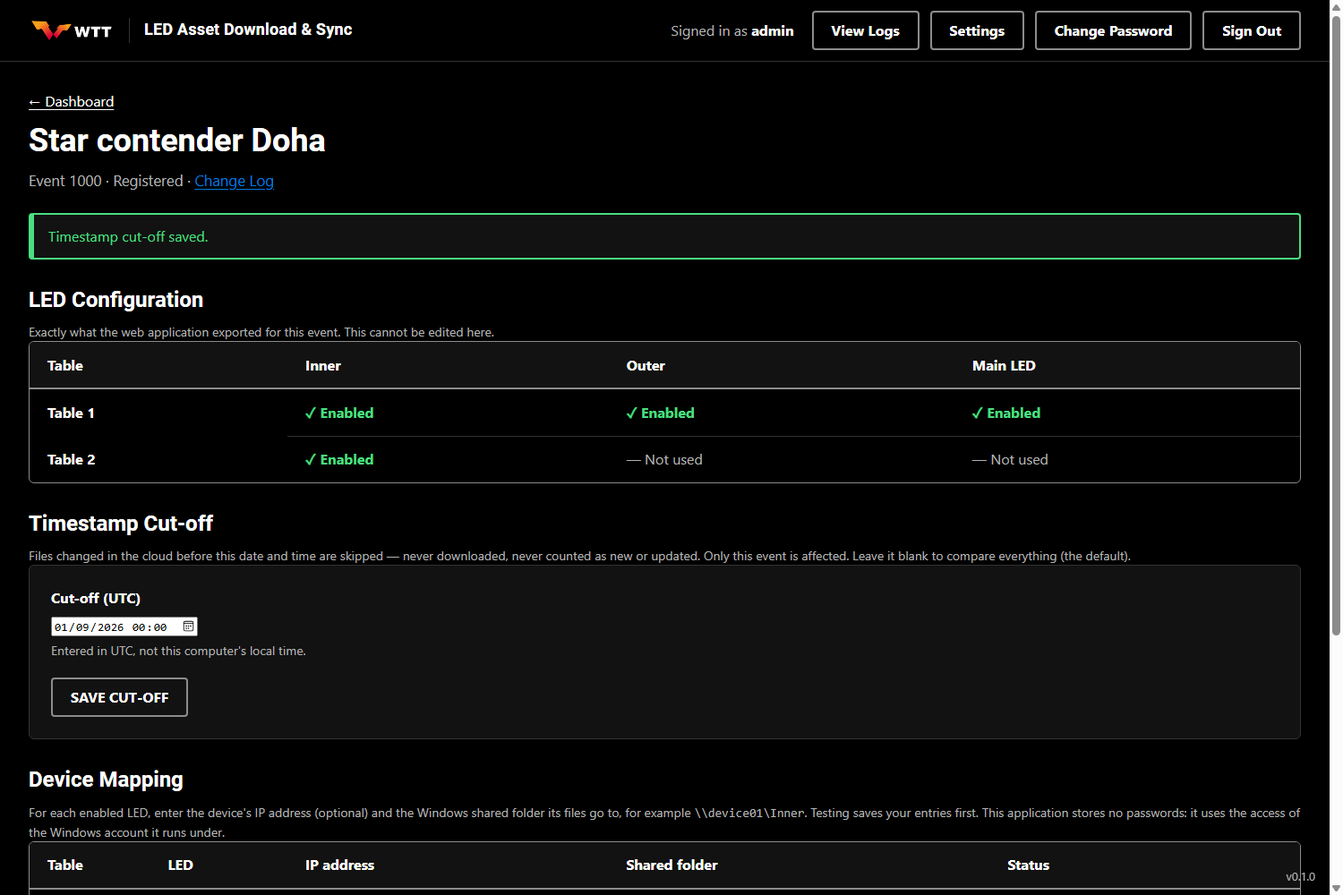
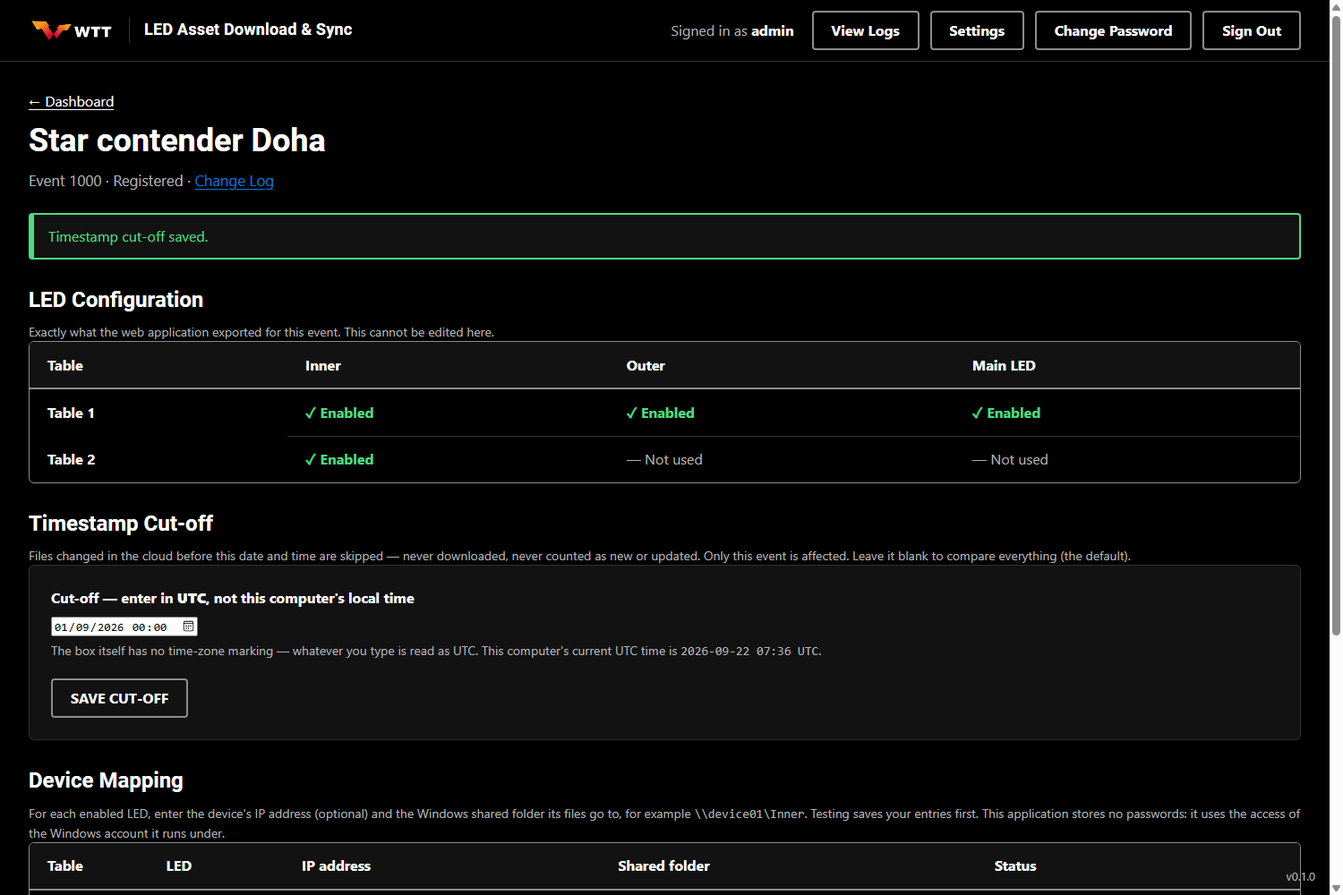
Phase 10: retry settings threaded as parameters, not a shared mutable global (review fix)
The independent review found a real race: transfer.RETRY_COUNT/RETRY_DELAY were mutated
and restored around each background job, but only same-event jobs are serialised (Phase
8), so two jobs for different events on their own threads could observe or permanently
corrupt each other's retry configuration. Reproduced on real threads.

Fixed by removing the mutable global: the saved Settings -> Download value is loaded once
per job and passed down as an ordinary argument through transfer.run / assets.process /
rpi.process / sync.process / _retry. Also: a clearer message for an out-of-range cut-off
year, and a live UTC clock next to the cut-off field so the box's lack of a time-zone
indicator is less likely to cause a real-world local-time mistake.

diff --git a/ledsync/web/templates/event_details.html b/ledsync/web/templates/event_details.html
@@ -49,10 +49,11 @@
     <form method="post" action="{{ url_for('devices.save_cutoff', event_id=event.event_id) }}" class="panel" novalidate data-busy-text="WORKING…">
       <input type="hidden" name="csrf_token" value="{{ csrf_token() }}">
       <div class="field">
-        <label for="cutoff">Cut-off (UTC)</label>
+        <label for="cutoff">Cut-off &mdash; enter in <strong>UTC</strong>, not this computer's local time</label>
         <input id="cutoff" name="cutoff" type="datetime-local" value="{{ cutoff_typed }}"
                aria-describedby="{% if cutoff_error %}cutoff-error {% endif %}cutoff-hint">
-        <p id="cutoff-hint" class="hint">Entered in UTC, not this computer's local time.</p>
+        <p id="cutoff-hint" class="hint">The box itself has no time-zone marking &mdash; whatever you type is read as UTC. This computer's
+          current UTC time is <span id="cutoff-now-utc" class="mono" data-utc-clock></span>.</p>
       </div>
       <div class="form-actions">
         <button type="submit" class="btn btn-secondary">SAVE CUT-OFF</button>

diff --git a/ledsync/web/static/js/app.js b/ledsync/web/static/js/app.js
@@ -53,3 +53,17 @@ window.addEventListener("pageshow", function (event) {
     }
   }
 });
+
+// A plain, always-on reminder of "what UTC is right now" next to any field that needs a UTC value
+// entered (the timestamp cut-off): the native datetime-local picker carries no time-zone marking of
+// its own, so this is the cheapest way to keep the operator from typing local time by mistake.
+document.addEventListener("DOMContentLoaded", function () {
+  var clocks = document.querySelectorAll("[data-utc-clock]");
+  if (!clocks.length) return;
+  function tick() {
+    var now = new Date().toISOString().slice(0, 16).replace("T", " ") + " UTC";
+    for (var i = 0; i < clocks.length; i++) { clocks[i].textContent = now; }
+  }
+  tick();
+  setInterval(tick, 30000);
+});

diff --git a/tests/test_phase10_settings.py b/tests/test_phase10_settings.py
@@ -2,6 +2,7 @@
 timestamp cut-off, and the fuller Dashboard Actions column (Steps 10.1, 10.2)."""
 
 import re
+import threading
 import time
 
 import pytest
@@ -416,3 +417,77 @@ def world_conn(cfg):
     conn.commit()
     yield conn
     conn.close()
+
+
+# --- independent-review regression: retries/delay are ordinary parameters, never a shared mutable global -------------------------
+
+def test_retry_and_delay_are_passed_explicitly_never_via_a_shared_global(monkeypatch):
+    """Two concurrent calls with DIFFERENT retries/delay must never see or leave behind each other's value - proven by
+    running them on separate threads at the same time and checking the module constants are untouched throughout."""
+    from ledsync.services.storage import StorageError
+    monkeypatch.setattr(transfer, "RETRY_COUNT", 1)               # the untouched module defaults, watched throughout
+    monkeypatch.setattr(transfer, "RETRY_DELAY", 0.2)
+    seen_a, seen_b = [], []
+    start = threading.Event()
+
+    def worker(retries, delay, seen, marker):
+        start.wait(2)
+        calls = []
+
+        def action():
+            calls.append(1)
+            seen.append((transfer.RETRY_COUNT, transfer.RETRY_DELAY))       # the untouched globals, sampled mid-flight
+            if len(calls) <= retries:
+                raise StorageError(exceptions.STORAGE_CONNECTIVITY, "busy")
+            return marker
+        assert transfer._retry(action, retries, delay) == marker
+        assert len(calls) == retries + 1
+
+    ta = threading.Thread(target=worker, args=(4, 0.01, seen_a, "a"))
+    tb = threading.Thread(target=worker, args=(1, 0.01, seen_b, "b"))
+    ta.start(), tb.start()
+    start.set()
+    ta.join(5), tb.join(5)
+    assert not ta.is_alive() and not tb.is_alive()
+    # the module defaults were never touched by either call, on either thread, at any point
+    assert set(seen_a) <= {(1, 0.2)} and set(seen_b) <= {(1, 0.2)}
+    assert (transfer.RETRY_COUNT, transfer.RETRY_DELAY) == (1, 0.2)
+
+
+def test_run_job_passes_the_saved_retry_setting_down_as_a_plain_argument_never_a_global(ev, cfg, tmp_path_factory, monkeypatch):
+    """`_run_job` must load Settings -> Download once and pass it down as an ordinary argument to every engine -
+    never assign it to `transfer.RETRY_COUNT` / `RETRY_DELAY`, which a concurrent job on another thread could also
+    be reading or restoring."""
+    from test_phase8_sync import seed, sync_all
+    conn = connect(cfg.db_path)
+    cs.save_download_settings(conn, "3", "0")
+    conn.commit()
+    conn.close()
+    map_devices(ev, cfg, tmp_path_factory)
+    seed(ev)
+    before = (transfer.RETRY_COUNT, transfer.RETRY_DELAY)
+    seen = []
+    real = sync.process
+
+    def watching(*args, **kwargs):
+        seen.append((transfer.RETRY_COUNT, transfer.RETRY_DELAY))         # sampled mid-run, from inside the job
+        return real(*args, **kwargs)
+    monkeypatch.setattr(sync, "process", watching)
+    sync_all(ev)
+    assert seen and set(seen) == {before}                                # the module defaults were never touched
+    assert (transfer.RETRY_COUNT, transfer.RETRY_DELAY) == before         # ... and are still untouched afterwards
+
+
+def test_an_out_of_range_cutoff_year_gets_its_own_clear_message(world_conn):
+    conn = world_conn
+    with pytest.raises(changes.CutoffError, match="between 1970 and 2098"):
+        changes.save_cutoff(conn, "1000", "2099-01-01T00:00")
+    with pytest.raises(changes.CutoffError, match="between 1970 and 2098"):
+        changes.save_cutoff(conn, "1000", "1900-01-01T00:00")
+    with pytest.raises(changes.CutoffError, match="Enter a date and time"):
+        changes.save_cutoff(conn, "1000", "not a date at all")
+
+
+def test_the_cutoff_field_shows_a_live_utc_clock_reminder(ev):
+    html = ev.get("/events/1000").get_data(as_text=True)
+    assert "data-utc-clock" in html and "enter in <strong>UTC</strong>" in html

diff --git a/ledsync/services/downloads.py b/ledsync/services/downloads.py
@@ -190,21 +190,16 @@ def run_job(config, storage_factory, settings, event_id: str, progress: Progress
     return lines
 
 
-def _apply_retry_settings(conn) -> tuple:
-    """Settings -> Download (Phase 10) governs both the download and push retry behaviour, which both read
-    `transfer.RETRY_COUNT` / `transfer.RETRY_DELAY` directly. Returns the previous values to restore afterwards, so a
-    job never leaves those globals changed for anything that runs after it (including, in tests, a later test)."""
-    saved = cloud_settings.load_download_settings(conn)
-    old = (transfer.RETRY_COUNT, transfer.RETRY_DELAY)
-    transfer.RETRY_COUNT, transfer.RETRY_DELAY = saved.retry_count, saved.retry_delay
-    return old
-
-
 def _run_job(config, storage_factory, settings, event_id: str, progress: Progress, tz=None, on_report=None, *,
              download: bool = True, push: bool = True, checker=None) -> list[dict]:
     conn = connect(config.db_path)
-    old_retry = _apply_retry_settings(conn)
     try:
+        # Settings -> Download (Phase 10) governs both the download and push retry behaviour. Read once here and
+        # passed explicitly to every engine below - an ordinary local value, never a shared mutable global - so two
+        # jobs for different events running at the same time on their own threads can never see, or leave behind,
+        # each other's retry configuration.
+        retry_settings = cloud_settings.load_download_settings(conn)
+        retries, delay = retry_settings.retry_count, retry_settings.retry_delay
         progress.phase = "Checking"
         canonical = conn.execute("SELECT event_id FROM events WHERE event_id = ? COLLATE NOCASE", (event_id,)).fetchone()
         if canonical is None:
@@ -236,7 +231,7 @@ def _run_job(config, storage_factory, settings, event_id: str, progress: Progres
             for label, engine, folder in (("RPI files", rpi, rpi_folder), ("Files", assets, asset_folder)):
                 try:
                     result.add(engine.process(conn, storage, settings.account, location, event_id, report.comparison, folder,
-                                              config.data_dir, progress))
+                                              config.data_dir, progress, retries=retries, delay=delay))
                 except localfiles.LocalFileError as err:
                     notes.append(_line("error", f"{label}: {err}"))
                     result.failed += 1
@@ -258,7 +253,7 @@ def _run_job(config, storage_factory, settings, event_id: str, progress: Progres
             progress.identify(len(items))
             progress.set_phase("Synchronising", len(items))
             protected = (str(asset_folder), str(cloud_settings.load_rpi_folder(conn, config.data_dir).effective))
-            sresult = sync.process(conn, event_id, items, config.data_dir, progress, checker, protected)
+            sresult = sync.process(conn, event_id, items, config.data_dir, progress, checker, protected, retries, delay)
             sresult.unmapped = unmapped
             cancelled = cancelled or sresult.cancelled
             lines += _describe_sync(sresult)
@@ -278,7 +273,6 @@ def _run_job(config, storage_factory, settings, event_id: str, progress: Progres
         return lines
     finally:
         conn.close()
-        transfer.RETRY_COUNT, transfer.RETRY_DELAY = old_retry
 
 
 def run_download(config, storage_factory, settings, event_id: str, progress: Progress, tz=None, on_report=None) -> list[dict]:

diff --git a/ledsync/services/transfer.py b/ledsync/services/transfer.py
@@ -67,10 +67,14 @@ def history(conn, event_id, item, table, led_type, source: str, local: str, stat
                  (event_id, item.file_name, table, led_type, source, local, item.cloud_time_text, _now(), status))
 
 
-def _retry(action):
-    """Run `action`; a transient problem (connection, wrong checksum) gets `RETRY_COUNT` more tries, each after a pause
-    of `RETRY_DELAY` seconds - both read fresh on every call, so a Settings change (or a test's monkeypatch) takes
-    effect immediately without threading a parameter through every caller."""
+def _retry(action, retries: int | None = None, delay: float | None = None):
+    """Run `action`; a transient problem (connection, wrong checksum) gets `retries` more tries, each after a pause
+    of `delay` seconds. `None` (the default) falls back to the module constants `RETRY_COUNT` / `RETRY_DELAY` -
+    read fresh on every call, so a test's monkeypatch of those still works. A real run passes its own Settings ->
+    Download values explicitly instead (see `downloads.py`), so two concurrent jobs for different events can never
+    see - or leave behind - each other's retry configuration; nothing here is a shared, mutable global."""
+    retries = RETRY_COUNT if retries is None else retries
+    delay = RETRY_DELAY if delay is None else delay
     attempt = 0
     while True:
         try:
@@ -80,16 +84,17 @@ def _retry(action):
             if isinstance(err, StorageError) and err.category not in STOP_CATEGORIES and not changed:
                 raise
             attempt += 1
-            if attempt > RETRY_COUNT:
+            if attempt > retries:
                 raise
-            time.sleep(RETRY_DELAY)
+            time.sleep(delay)
 
 
 def run(conn: sqlite3.Connection, storage, account: str, location, event_id: str, items, *, operation: str,
-        folder_for, existing_folder_for, table_led_of, progress, listings: dict) -> TransferResult:
+        folder_for, existing_folder_for, table_led_of, progress, listings: dict,
+        retries: int | None = None, delay: float | None = None) -> TransferResult:
     """Carry out `items` (Assessments). `folder_for(item)` creates and returns the destination folder,
     `existing_folder_for(item)` returns it only if it exists (for removals), `table_led_of(item)` gives the
-    (table number or None, LED type) recorded in the history."""
+    (table number or None, LED type) recorded in the history. `retries` / `delay`: see `_retry`."""
     result = TransferResult()
     for index, item in enumerate(items):
         if progress.cancelled:
@@ -119,7 +124,7 @@ def run(conn: sqlite3.Connection, storage, account: str, location, event_id: str
                         size=info.size, md5=info.md5, on_bytes=progress.add_bytes, cancelled=lambda: progress.cancelled)
                     return info, written
 
-                info, target = _retry(attempt)
+                info, target = _retry(attempt, retries, delay)
                 history(conn, event_id, item, table, led, location.blob_url(account, info.path), str(target), "Success")
                 oplog.add(conn, operation, "Success", f"Downloaded {item.file_name}.", event_id)
                 exceptions.resolve_matching(conn, event_id, operation, table_number=table, led_type=led, file_name=item.file_name)

diff --git a/ledsync/services/sync.py b/ledsync/services/sync.py
@@ -162,9 +162,14 @@ def _resolve(conn, event_id, item: SyncItem) -> None:
                                 file_name=item.file_name, destination=item.mapping.shared_folder)
 
 
-def _retry(action):
-    """`transfer.RETRY_COUNT` more tries, each after `transfer.RETRY_DELAY` seconds, for a transient network problem
-    or a copy that did not verify (the same Settings -> Download configuration governs both download and push)."""
+def _retry(action, retries: int | None = None, delay: float | None = None):
+    """`retries` more tries, each after `delay` seconds, for a transient network problem or a copy that did not
+    verify. `None` (the default) falls back to `transfer.RETRY_COUNT` / `transfer.RETRY_DELAY`, read fresh on every
+    call (so a test's monkeypatch still works); a real run passes its own Settings -> Download values explicitly
+    instead (see `downloads.py`) - the same configuration governs both download and push, but as an ordinary
+    parameter, never a shared mutable global two concurrent jobs (different events) could step on."""
+    retries = transfer.RETRY_COUNT if retries is None else retries
+    delay = transfer.RETRY_DELAY if delay is None else delay
     attempt = 0
     while True:
         try:
@@ -173,15 +178,16 @@ def _retry(action):
             if isinstance(err, localfiles.DeviceError) and err.category != exceptions.NETWORK_DEVICE:
                 raise
             attempt += 1
-            if attempt > transfer.RETRY_COUNT:
+            if attempt > retries:
                 raise
-            time.sleep(transfer.RETRY_DELAY)
+            time.sleep(delay)
 
 
 def process(conn: sqlite3.Connection, event_id: str, items: list[SyncItem], data_dir, progress=None, checker=None,
-            protected=()) -> SyncResult:
+            protected=(), retries: int | None = None, delay: float | None = None) -> SyncResult:
     """Carry out `items`. Every destination is tested first; a destination that cannot be used fails only its own files.
-    `protected` are folders no device folder may overlap (the local asset and RPI folders)."""
+    `protected` are folders no device folder may overlap (the local asset and RPI folders). `retries` / `delay`: see
+    `_retry`."""
     progress = progress or NullProgress()
     result = SyncResult()
     if not items:
@@ -231,7 +237,8 @@ def process(conn: sqlite3.Connection, event_id: str, items: list[SyncItem], data
                     size = item.source.stat().st_size if item.source is not None and item.source.is_file() else 0
                     progress.begin(item.file_name, size)
                     target = _retry(lambda: localfiles.push_file(
-                        item.source, folder, item.file_name, on_bytes=progress.add_bytes, cancelled=lambda: progress.cancelled))
+                        item.source, folder, item.file_name, on_bytes=progress.add_bytes, cancelled=lambda: progress.cancelled),
+                        retries, delay)
                     _record(conn, event_id, item, "Success")
                     oplog.add(conn, OPERATION, "Success", f"{item.mapping.label}: sent {item.file_name}.", event_id)
                     _resolve(conn, event_id, item)

diff --git a/ledsync/services/changes.py b/ledsync/services/changes.py
@@ -49,7 +49,7 @@ from . import structure
 from .changelog import (
     ChangeLogError, CloudEntry, ParsedChangeLog, SkippedRow, _path_problem, blocked_name_problem, fetch_change_log,
 )
-from .events import parse_timestamp
+from .events import MAX_YEAR, MIN_YEAR, parse_timestamp
 from .storage import StorageError
 
 log = logging.getLogger(__name__)
@@ -374,6 +374,16 @@ def validate_cutoff(text: str) -> str:
         return ""
     parsed = parse_timestamp(value)
     if parsed is None:
+        # A value that parses as a real date/time but falls outside the range this application accepts anywhere
+        # (see events.parse_timestamp) gets its own message, so "a real year, just too old/new" is never confused
+        # with "not a date at all".
+        candidate = value[:-1] + "+00:00" if value.endswith(("Z", "z")) else value
+        try:
+            year = datetime.fromisoformat(candidate).year
+        except (ValueError, OverflowError):
+            year = None
+        if year is not None and not (MIN_YEAR <= year <= MAX_YEAR):
+            raise CutoffError(f"Enter a year between {MIN_YEAR} and {MAX_YEAR}.")
         raise CutoffError("Enter a date and time (for example 2026-09-01T00:00), or leave it blank for no cut-off.")
     return parsed.astimezone(timezone.utc).strftime("%Y-%m-%dT%H:%M:%SZ")
 

diff --git a/ledsync/services/assets.py b/ledsync/services/assets.py
@@ -54,7 +54,7 @@ def asset_items(comparison: changes.Comparison, event_dir=None, budget: float | 
 
 
 def process(conn, storage, account: str, location: EventLocation, event_id: str, comparison: changes.Comparison,
-            asset_root, data_dir, progress=None) -> transfer.TransferResult:
+            asset_root, data_dir, progress=None, *, retries=None, delay=None) -> transfer.TransferResult:
     """Carry out the asset downloads and removals of `comparison`. Raises `localfiles.LocalFileError` only if the asset
     folder itself cannot be used; problems with single files are counted."""
     progress = progress or NullProgress()
@@ -74,4 +74,4 @@ def process(conn, storage, account: str, location: EventLocation, event_id: str,
                         folder_for=lambda item: localfiles.open_subfolder(event_dir, f"Table {item.table}",
                                                                           structure.LED_LABELS[item.led_type]),
                         existing_folder_for=existing, table_led_of=lambda item: (item.table, item.led_type),
-                        progress=progress, listings={})
+                        progress=progress, listings={}, retries=retries, delay=delay)

diff --git a/ledsync/services/rpi.py b/ledsync/services/rpi.py
@@ -40,7 +40,7 @@ def rpi_items(comparison: changes.Comparison, event_dir=None) -> list[changes.As
 
 
 def process(conn, storage, account: str, location: EventLocation, event_id: str, comparison: changes.Comparison,
-            rpi_root, data_dir, progress=None) -> transfer.TransferResult:
+            rpi_root, data_dir, progress=None, *, retries=None, delay=None) -> transfer.TransferResult:
     """Carry out the RPI downloads and removals of `comparison`. Raises `localfiles.LocalFileError` only if the RPI
     folder itself cannot be used; problems with single files are counted."""
     progress = progress or NullProgress()
@@ -54,4 +54,4 @@ def process(conn, storage, account: str, location: EventLocation, event_id: str,
         return transfer.TransferResult()
     return transfer.run(conn, storage, account, location, event_id, items, operation=OPERATION,
                         folder_for=lambda item: event_dir, existing_folder_for=lambda item: event_dir,
-                        table_led_of=lambda item: (None, changes.RPI), progress=progress, listings={})
+                        table_led_of=lambda item: (None, changes.RPI), progress=progress, listings={}, retries=retries, delay=delay)

diff --git a/docs/Security_Desktop_Phase10_SettingsAndDashboard.md b/docs/Security_Desktop_Phase10_SettingsAndDashboard.md
@@ -35,7 +35,7 @@ Status values: **Pass**, **Fail**, **N/A at this stage**, **Accepted risk** (BRD
 | D2 | **Key-shaped text pasted into the wrong box is refused** | **Pass** | The email recipient field refuses a key-shaped value, same as the account/container fields (tested). |
 | D3 | **The schema change cannot lose data** | **Pass** | `events.cutoff_timestamp` is added by an idempotent `ALTER TABLE ... ADD COLUMN` for a database created before Phase 10, in the same column position a fresh database's DDL uses, so the startup column-order check passes either way; run twice with no error; an existing row's other columns are untouched (tested by simulating a real pre-Phase-10 table). |
 | D4 | **The per-event cut-off cannot affect another event** | **Pass** | Stored on the event's own row and looked up by that event's ID (case-insensitive, like every other event lookup); tested with two events sharing similar data. |
-| D5 | **The shared retry setting cannot leak between runs** | **Pass** | `transfer.RETRY_COUNT` / `RETRY_DELAY` are read fresh at the start of every job and restored to their previous values in a `finally` block once the job ends, including when the job raises. Only one job runs per event, and a second start for the same event is refused (Phase 8); the application has one administrator and no concurrent-job-with-different-settings scenario is possible through the UI. |
+| D5 | **The shared retry setting cannot leak between runs** | **Pass (after a review fix)** | The saved setting is loaded once per job and passed down as an **ordinary argument** through every engine (`transfer.run`, `assets.process`, `rpi.process`, `sync.process`) - not a shared mutable global. An earlier version mutated `transfer.RETRY_COUNT` / `RETRY_DELAY` around each job and restored them afterwards; because only *same-event* jobs are blocked from running together (Phase 8), two jobs for **different** events on their own threads could observe or permanently corrupt each other's value - reproduced on real threads by the review (S-62 promoted to a real finding and closed; see below). With no global left to mutate, the race is structurally impossible, not just unlikely. |
 | D6 | The read-only Application Settings page does not disclose anything beyond a local path | **Pass** | Shows only this computer's own database and log file paths, already implied by the application's own presence on the machine; no environment variable content, no other machine's information. |
 
 ## E. Application security
@@ -45,7 +45,7 @@ Status values: **Pass**, **Fail**, **N/A at this stage**, **Accepted risk** (BRD
 | E1 | Input validation / injection | **Pass** | All new settings values are parameterised in SQL, range/format-checked server-side (not relying on the HTML `min`/`max`/`maxlength` attributes, which a forged request bypasses - tested); the schedule day list is filtered to the fixed seven-value set, dropping anything forged. |
 | E2 | Output encoding / XSS | **Pass** | Jinja auto-escaping for every new field. |
 | E5 | Errors do not leak internals | **Pass** | Fixed plain messages; a refused save is a 400 with the same message shown to the operator and logged (scrubbed) as an exception. |
-| E12 | Background job safety | **Pass** | The retry-settings mutation happens on the job's own thread before any file is touched, and is restored after, whether the job finishes normally, is cancelled, or raises. |
+| E12 | Background job safety | **Pass (after a review fix)** | The retry setting is loaded once at the start of the job and passed down as a plain argument (see D5) - nothing shared is mutated, so there is nothing to restore and nothing a concurrent job could see mid-flight. |
 | E15 (added) | **The Dashboard's Test Connections reuses an existing, already-guarded route** | **Pass** | Posts `action=test-all` to the same `/events/<id>/mappings` endpoint Device Mapping's own "SAVE AND TEST ALL" uses; that endpoint only reads per-LED fields that are present in the POST body (`_entries`), so a Dashboard form that omits them changes nothing about the saved folders - it only runs the test, exactly like the existing button does. |
 
 ## F. Secrets management
@@ -74,12 +74,14 @@ Status values: **Pass**, **Fail**, **N/A at this stage**, **Accepted risk** (BRD
 
 | ID | Severity | Finding | Action |
 |---|---|---|---|
-| S-62 | Info | The retry setting is a single mutable pair of module-level constants, restored per job rather than threaded as a parameter. Safe under this application's one-job-at-a-time model, but would need rework if a future phase ran two jobs concurrently with different settings. | Accepted; documented in the code. |
+| S-62 | **Medium → Closed** | (Review) The retry setting was a mutable pair of module-level constants (`transfer.RETRY_COUNT`/`RETRY_DELAY`), mutated and restored around each job. Two jobs for **different** events run concurrently (Phase 8 only blocks a second job for the *same* event); the reviewer reproduced both cross-contamination (one job briefly observing another's in-flight value) and a permanent leak (the wrong "old" value winning the restore race) with a standalone repro. | Removed the global entirely: `retries`/`delay` are now ordinary parameters threaded through `transfer.run` / `assets.process` / `rpi.process` / `sync.process` / `_retry`, loaded once per job in `downloads._run_job`. Two threads with different values, run concurrently, now provably never see or leave behind each other's setting (new regression test). |
+| S-63 | Low → **Closed** | (Review) An out-of-range cut-off year (e.g. 2099, outside the application's accepted 1970-2098) gave the same message as a genuinely unreadable value, which could read as "try again" rather than "pick an in-range year". | A year outside the accepted range now gets its own message. |
+| S-64 | Info → **Closed** | (Review note) The cut-off field's UTC framing relied entirely on label/hint text; the native `datetime-local` picker shows no time-zone indicator, a plausible real-world source of a local-time mistake. | A live UTC clock next to the field now shows "this computer's current UTC time", refreshed every 30 s, via the existing CSP-safe `app.js` (no inline script). |
 | S-2, S-4, S-9 | — | Accepted admin credential; accepted plain-text key (F-28); single-instance lock (Phase 12). | Carried. |
 
 ## Sign-off
 
 | Role | Name | Date | Outcome |
 |---|---|---|---|
-| Independent Solution Architect review | Independent review agent (fresh context) | pending | pending |
+| Independent Solution Architect review | Independent review agent (fresh context) | 22/09/26 | **Approved with notes after a fix** - see S-62, S-63, S-64 (S-62 reproduced on real threads and fixed by removing the mutable global; 4 regression tests; **not re-reviewed**). |
 | User (Vatsan) go-ahead | Vatsan | pending | pending |

diff --git a/docs/QA_Desktop_Phase10_SettingsAndDashboard.md b/docs/QA_Desktop_Phase10_SettingsAndDashboard.md
@@ -59,9 +59,9 @@ Live check (read-only, re-runnable): `.\.venv\Scripts\python -m pytest -q --live
 
 | Total cases | Passed | Failed | Blocked | Not yet run |
 |---|---|---|---|---|
-| 34 | 15 (automated groups covering 29 new pytest cases, 1 live check against real Azure, 1 rendered-page group — all run by Claude) | 0 | 0 | 19 (manual TC-M01 – TC-M19, for the owner) |
+| 35 | 16 (automated groups covering 33 new pytest cases, 1 live check against real Azure, 1 rendered-page group — all run by Claude) | 0 | 0 | 19 (manual TC-M01 – TC-M19, for the owner) |
 
-`.\.venv\Scripts\python -m pytest -q` → **1435 passed, 14 skipped** (the skipped are the live-Azure tests, which need `--live`).
+`.\.venv\Scripts\python -m pytest -q` → **1439 passed, 14 skipped** (the skipped are the live-Azure tests, which need `--live`).
 
 ## Live validation against the real Azure account (read-only, 22/09/26)
 
@@ -84,7 +84,8 @@ Live check (read-only, re-runnable): `.\.venv\Scripts\python -m pytest -q --live
 | TC-A09 | **Startup log retention:** rows older than the setting are removed at startup (both logs), a summary row is written only when something was removed; "forever" (the default) prunes nothing | Pass |
 | TC-A10 | **Dashboard Actions:** the row offers Test Connections (posts to the existing device-mapping test-all action) and View Logs (links to the Logs page pre-filtered to that event) | Pass |
 | TC-A11 | **Schema:** the new `events.cutoff_timestamp` column is added correctly for a brand-new database (in the DDL) and for a database created before Phase 10 (idempotent `ALTER TABLE`, appended in the same position so the column-order check still passes; run twice with no error; existing data untouched) | Pass |
-| TC-A12 | Earlier phases unchanged (the brand rule test caught an accent colour used outside the primary button - fixed; all earlier tests pass) | Pass |
+| TC-A12 | **Independent-review regression tests (4):** two concurrent runs with different retry settings never see or leave behind each other's value, proven on real threads; `_run_job` passes the saved retry setting down as a plain argument and never touches the `transfer` module's constants; an out-of-range cut-off year (e.g. 2099) gets its own clear message instead of the generic "not a date" one; the cut-off field's live UTC clock reminder is present on the page | Pass |
+| TC-A13 | Earlier phases unchanged (the brand rule test caught an accent colour used outside the primary button - fixed; all earlier tests pass) | Pass |
 
 ## Rendered-page checks
 
@@ -105,5 +106,5 @@ Live check (read-only, re-runnable): `.\.venv\Scripts\python -m pytest -q --live
 
 | Role | Name | Date | Outcome |
 |---|---|---|---|
-| Independent Solution Architect review | Independent review agent (fresh context) | pending | pending |
+| Independent Solution Architect review | Independent review agent (fresh context) | 22/09/26 | **Approved with notes after a fix** - one "fix now" finding, reproduced and fixed: the shared retry-count/delay setting was applied by temporarily **mutating the `transfer` module's constants** around each background job; two jobs for different events running at the same time (their own daemon threads; only same-event jobs are blocked) could observe or permanently leave behind each other's value. Fixed by removing the mutable global entirely - the saved setting is now loaded once per job and passed down as an ordinary argument through every engine (`transfer.run`, `assets.process`, `rpi.process`, `sync.process`), so there is nothing left for a second thread to race with. Also fixed on the reviewer's note: an out-of-range cut-off year gave the same message as garbled input; the cut-off field's UTC framing relied on label text alone with no visual cue, now backed by a live UTC clock next to the box. 4 regression tests, including a genuine two-thread race reproduction; **not re-reviewed**. Verified sound: the schema upgrade path (simulated a real pre-Phase-10 table, no data loss), the cut-off decision logic's full truth table, `add_azure_files`'s cut-off interaction, every new validator's server-side bounds, CSRF/auth on every new route, the Dashboard's Test Connections reuse of the existing guarded mapping route, and startup log pruning's timing and boundary. |
 | User (Vatsan) go-ahead | Vatsan | pending | pending |
